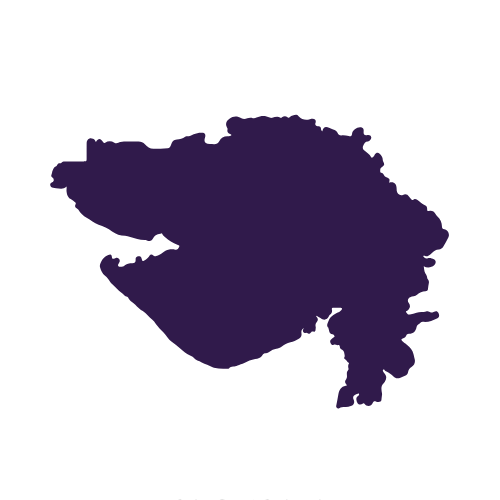
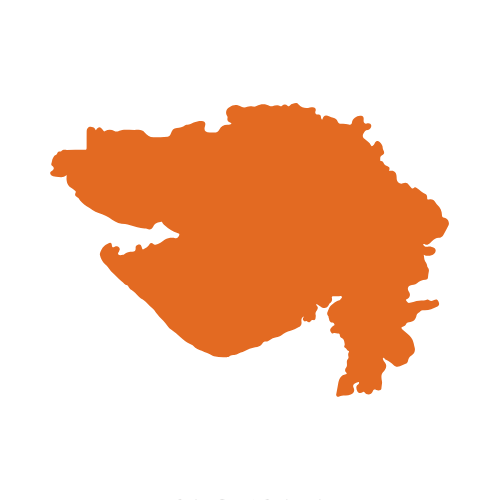
HomePage Ui customized, assets.jsx remain to customize

diff --git a/Frontend/src/components/ExploreMenu/ExploreMenu.jsx b/Frontend/src/components/ExploreMenu/ExploreMenu.jsx
@@ -2,19 +2,21 @@ import React from 'react'
 import './ExploreMenu.css'
 import { menu_list } from '../../assets/assets'
 
-const ExploreMenu = ({category, setCategory}) => {
+const ExploreMenu = ({ category, setCategory }) => {
   return (
     <div className='explore-menu' id='explore-menu'>
       <h1>Explore Menu</h1>
-      <p className='explore-menu-text'>Lorem ipsum dolor sit amet consectetur adipisicing elit. Corrupti, dolor distinctio! Veniam perferendis accusamus possimus corrupti, minima voluptate cum sint architecto autem dolores, at porro quaerat, molestias rem aliquam temporibus!</p>
+      <p className='explore-menu-text'>Our menu offers a rich exploration of India’s diverse culinary heritage, with dishes representing the unique flavors of each state. From the vibrant, spice-laden curries of the South to the hearty, comforting dishes of the North, you can create a personalized meal by mixing and matching your favorite items. Choose from an array of regional specialties, sides, and desserts to craft a meal that suits your taste and satisfies your cravings</p>
+      <h3>How to Order</h3>
+      <p className='explore-menu-text'>Each item on our menu is <b>priced per serve</b>, ensuring you know exactly what you’re getting with every order. A <b>single serve</b> is designed to be part of a complete meal, allowing you to combine dishes like a main curry, bread, and dessert to create a full, satisfying experience. Prices are clearly listed so you can enjoy the convenience of customizing your meal while staying within your budget.</p>
       <div className="explore-menu-list">
         {menu_list.map((item, index) => {
           return (
-            <div onClick={()=>setCategory(prev=>prev===item.menu_name?"All":item.menu_name)} className='explore-menu-list-item' key={index}>
-                <img className={category===item.menu_name?"active":""} src={item.menu_image} alt={item.name} />
-                <p>{item.menu_name}</p>
+            <div onClick={() => setCategory(prev => prev === item.menu_name ? "All" : item.menu_name)} className='explore-menu-list-item' key={index}>
+              <img className={category === item.menu_name ? "active" : ""} src={item.menu_image} alt={item.name} />
+              <p>{item.menu_name}</p>
             </div>
-            
+
           )
         })}
       </div>

diff --git a/Frontend/src/components/Footer/Footer.jsx b/Frontend/src/components/Footer/Footer.jsx
@@ -7,8 +7,8 @@ const Footer = () => {
     <div className='footer' id='footer'>
         <div className="footer-content">
             <div className="footer-content-left">
-                <img src={assets.logo} alt="logo" />
-                <p>Lorem ipsum dolor sit amet consectetur adipisicing elit. Cumque illum nam facilis non error iste. Rem, atque unde vel quis similique ut necessitatibus quos aliquam corrupti, inventore, cumque ipsam laudantium.</p>
+                <img src={assets.logo} alt="logo" className='logo' />
+                <p className='footer-desc'>At Nivala, we bring you the comforting flavors of "Ghar Ka Swaad" right to your doorstep. Our mission is to connect you with homemade, nutritious meals that remind you of the warmth and love of home cooking. Discover a variety of dishes from across India, crafted with care by local chefs who share our passion for authentic, homestyle food.</p>
                 <div className="footer-social-icons">
                     <img src={assets.facebook_icon} alt="" />
                     <img src={assets.twitter_icon} alt="" />
@@ -28,7 +28,7 @@ const Footer = () => {
                 <h2>Get in Touch</h2>
                 <ul>
                     <li>+91 00000 00000</li>
-                    <li>contact@nivala.dup</li>
+                    <li>contact.nivala@gmail.com</li>
                 </ul>
             </div>
         </div>

diff --git a/Frontend/src/components/Header/Header.css b/Frontend/src/components/Header/Header.css
@@ -4,17 +4,19 @@
     background: url('/public/header_img.png') no-repeat;
     background-size: contain;
     position: relative;
+    border-radius: 20px;
 }
 
 .header-contents{
     position: absolute;
     display: flex;
     flex-direction: column;
-    align-items: start;
+    align-items: center; /* Center align items horizontally */
     gap: 1.5vw;
     max-width: 50%;
-    bottom: 10%;
-    left : 6vw;
+    top: 75%; /* Position top at 50% */
+    left: 50%; /* Position left at 50% */
+    transform: translate(-50%, -50%); /* Adjust position to center */
     animation: fadeIn 5s;
     
 }
@@ -61,6 +63,7 @@
     }
 
     .header-contents button{
-        padding: 2vw 4vw;
+        padding: 1vw 3vw;
+        margin-top: 17px;
     }
 }

diff --git a/Frontend/src/components/Header/Header.jsx b/Frontend/src/components/Header/Header.jsx
@@ -5,12 +5,6 @@ const Header = () => {
   return (
     <div className='header'>
       <div className="header-contents">
-        <h2>
-            Order Your Favorite Food here
-        </h2>
-        <p>
-            Lorem ipsum dolor sit amet, consectetur adipiscing elit, sed do eiusmod tempor incididunt ut labore et dolore magna aliqua.
-        </p>
         <button>View Menu</button>   
       </div>
     </div>

diff --git a/Frontend/src/components/ExploreMenu/ExploreMenu.css b/Frontend/src/components/ExploreMenu/ExploreMenu.css
@@ -10,8 +10,9 @@
 }
 
 .explore-menu-text {
-    max-width: 60%;
+    max-width: 100%;
     columns: #808080;
+    text-align: justify;
 }
 
 .explore-menu-list {
@@ -52,7 +53,7 @@
 }
 
 .explore-menu-list-item .active {
-    border: 4px solid #301a4b;
+    border: 4px solid #e36a22;
     padding: 2px;
     border-radius: 50%;
 }

diff --git a/Frontend/src/components/Navbar/Navbar.css b/Frontend/src/components/Navbar/Navbar.css
@@ -36,14 +36,14 @@
 }
 
 .navbar button:hover{
-    background: #301a4b;
+    background: #e36a22;
     color: white;
 }
 
 .navbar .active{
-    color: #301a4b;
+    color: #e36a22;
     font-weight: bold;
-    border-bottom : 2px solid #301a4b;
+    border-bottom : 2px solid #e36a22;
 }
 
 .navbar:hover{

diff --git a/Frontend/src/components/Footer/Footer.css b/Frontend/src/components/Footer/Footer.css
@@ -47,6 +47,14 @@
     border: none;
 }
 
+.footer-content-left .logo{
+    width: 200px;
+}
+
+.footer-content-left .footer-desc{
+    text-align: justify;
+}
+
 @media (max-width : 750px){
     .footer-content{
         display: flex;
@@ -58,3 +66,4 @@
         text-align: center;
     }
 }
+

diff --git a/Frontend/src/index.css b/Frontend/src/index.css
@@ -6,10 +6,12 @@
   box-sizing: border-box;
   font-family: Outfit;
   scroll-behavior: smooth;
+  
 }
 
 body{
   min-height: 100vh;
+  
 }
 
 a{
@@ -30,3 +32,4 @@ a{
     opacity: 1;
   }
 }
+
